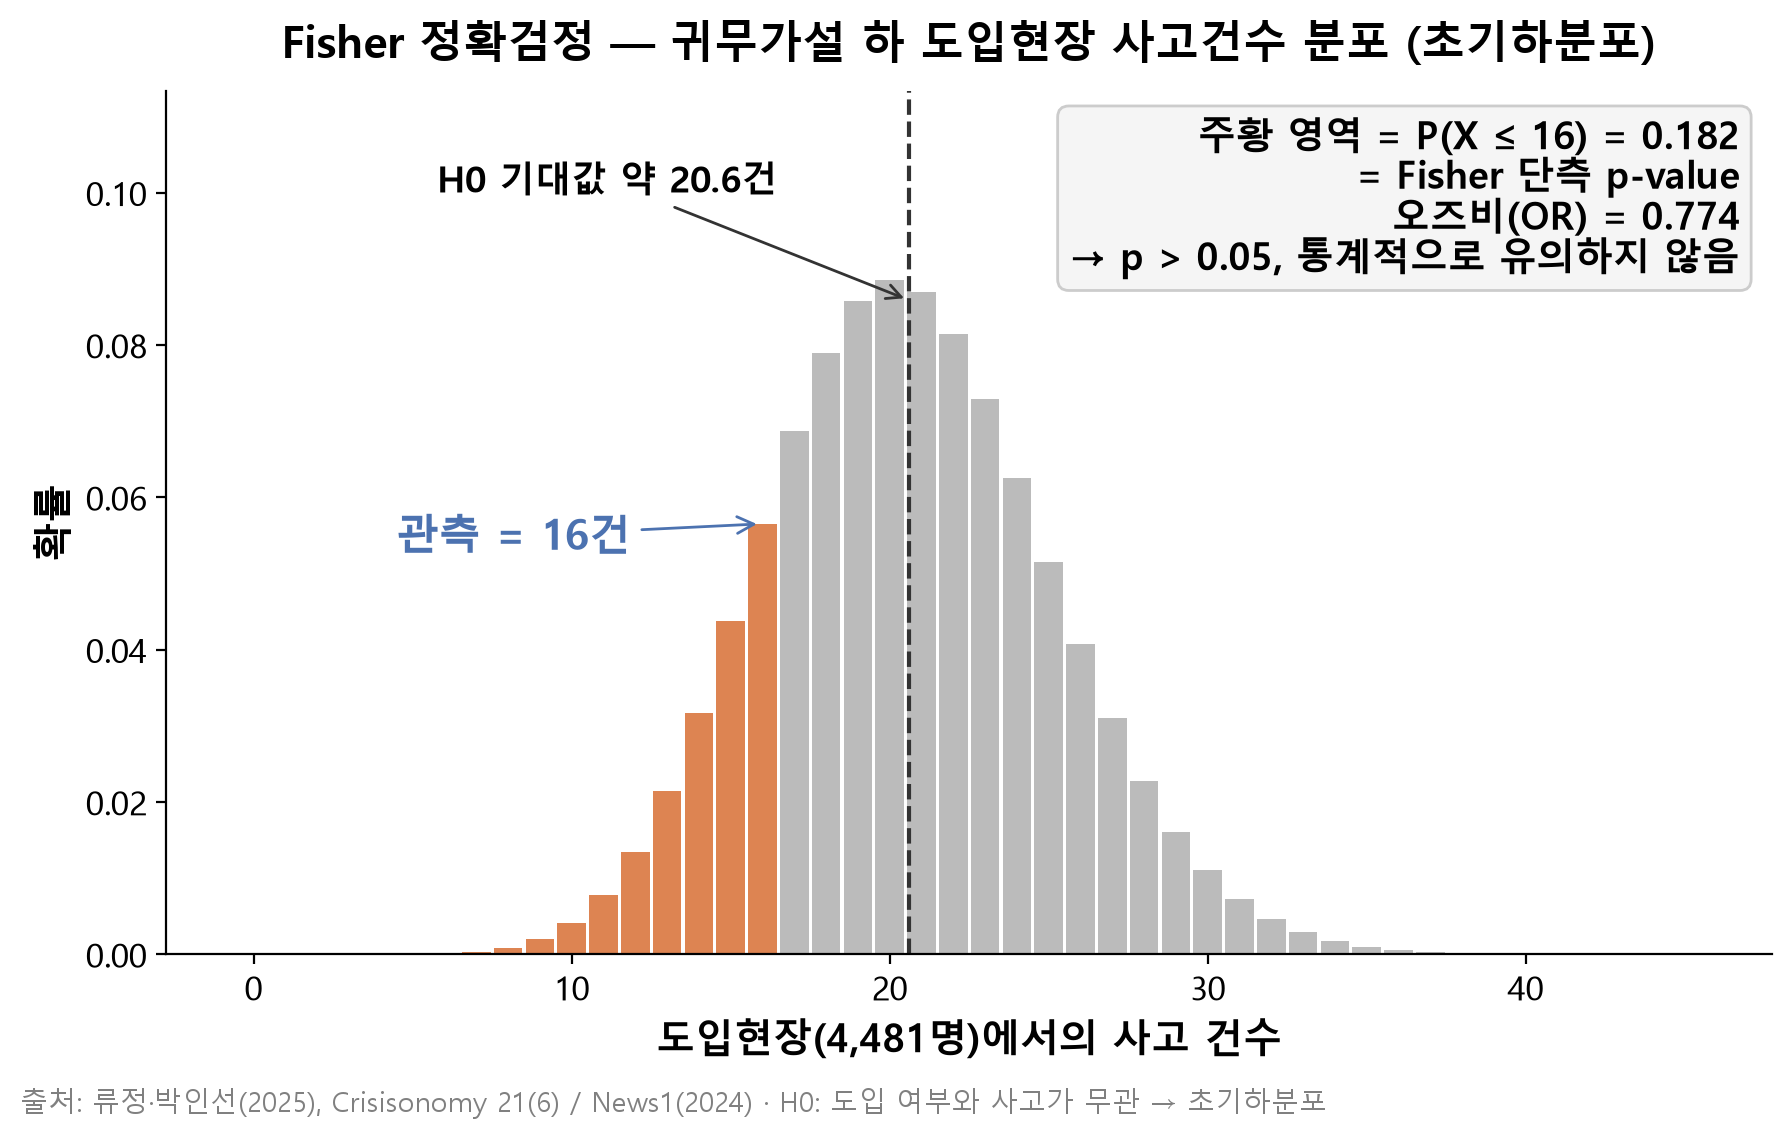
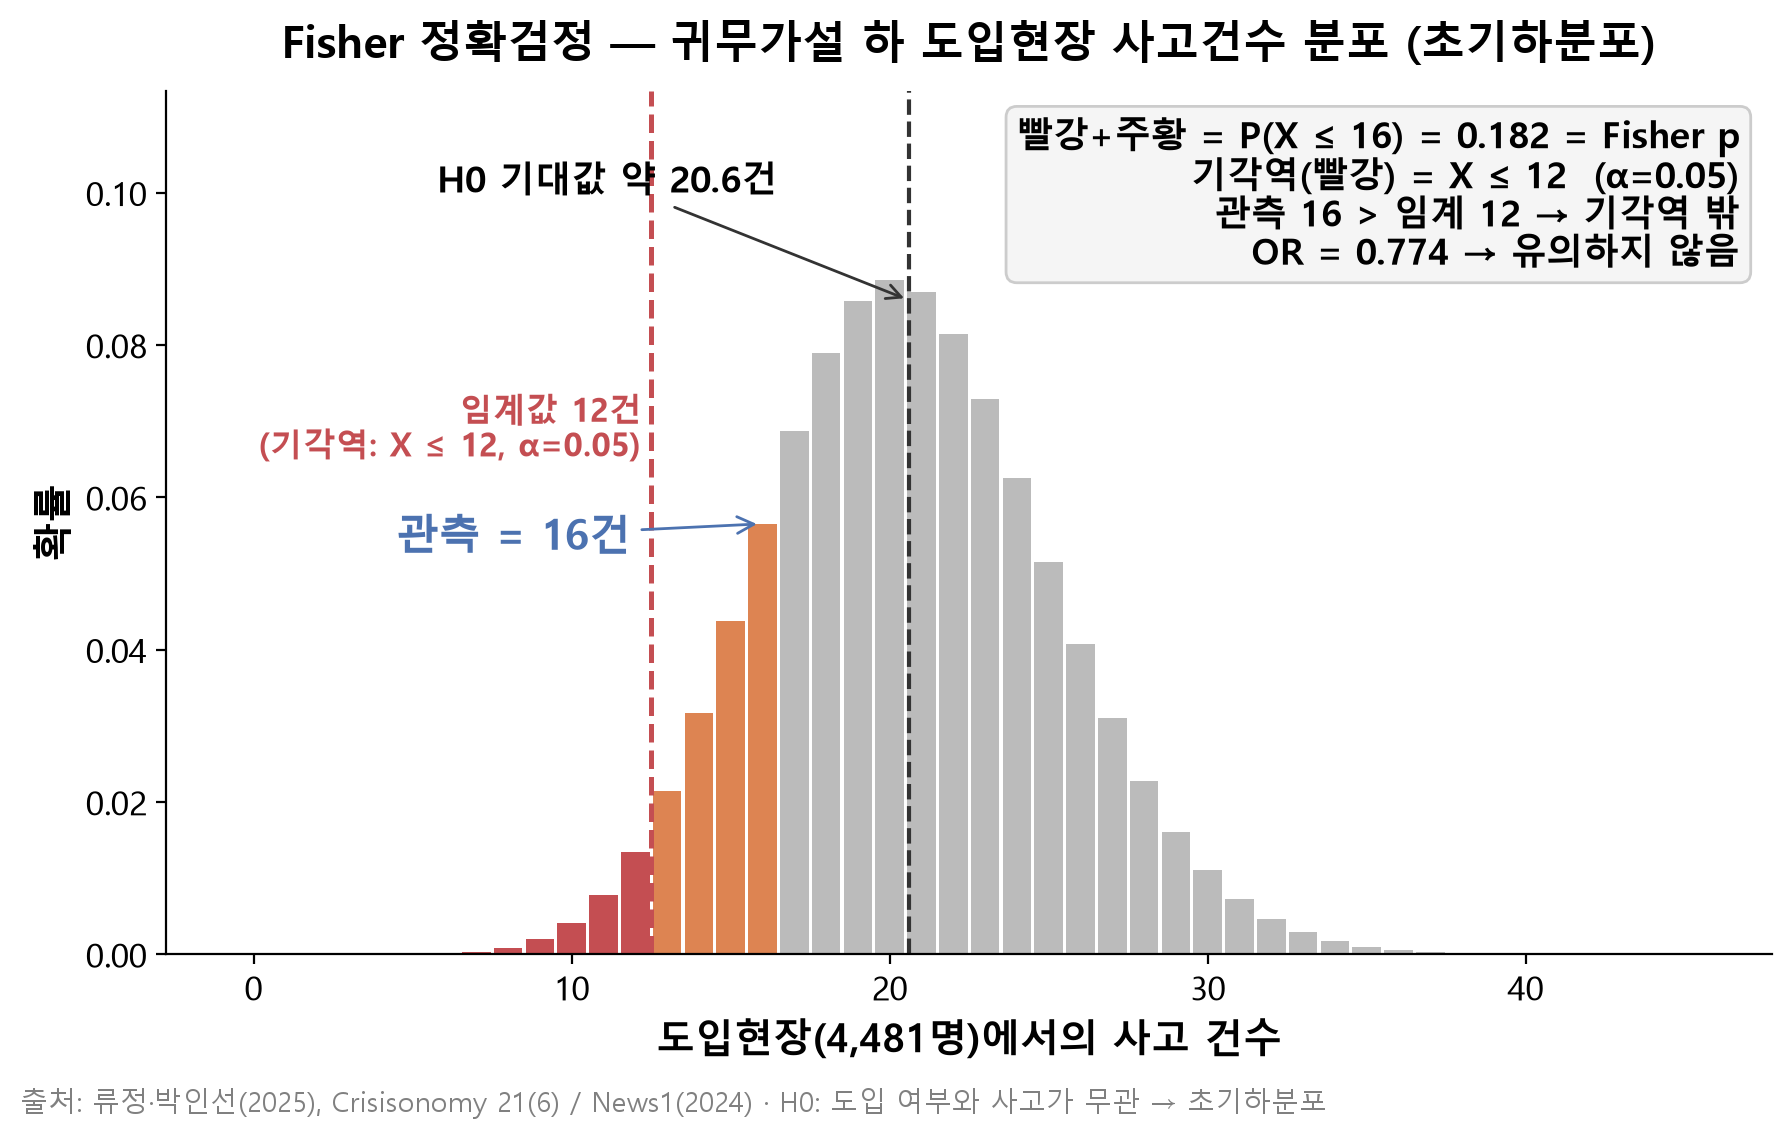
feature : Fisher 차트에 단측 임계값(기각역) 표시 추가
- 임계값 X≤12(빨강 막대+점선) = 단측 α=0.05 기각역, p-value 영역 X≤16(빨강+주황) 구분
- 관측 16 > 임계 12 → 기각역 밖(유의하지 않음) 시각화, 설명 박스 갱신

Changed region(s): [[0.5625, 0.0922, 0.9688, 0.2766], [0.1562, 0.338, 0.375, 0.3995], [0.2812, 0.7375, 0.375, 0.8604]]

diff --git a/src/plane/visualize_proportion_test.py b/src/plane/visualize_proportion_test.py
@@ -106,12 +106,26 @@ def plot_fisher():
     p_value = stats.hypergeom.cdf(X2, M, K, n)      # P(X <= 16) = Fisher(단측)
     odds_ratio, _ = stats.fisher_exact([[X2, N2 - X2], [X1, N1 - X1]], alternative="less")
 
-    colors = [C_TAIL if xi <= X2 else C_BASE for xi in xs]
+    # 단측 α=0.05 기각역: P(X <= crit_k) <= 0.05 인 가장 큰 k
+    crit_k = max(k for k in xs if stats.hypergeom.cdf(k, M, K, n) <= 0.05)
+
+    def bar_color(xi):
+        if xi <= crit_k:
+            return C_REJECT   # 기각역 (X <= 임계값)
+        if xi <= X2:
+            return C_TAIL     # 관측 이하 = p-value 영역
+        return C_BASE
+    colors = [bar_color(xi) for xi in xs]
+
     fig, ax = plt.subplots(figsize=(9, 5.5))
     ax.bar(xs, pmf, color=colors, width=0.9)
 
     ax.set_ylim(0, pmf.max() * 1.28)
     ax.axvline(mean, color="#333333", ls="--", lw=1.5)
+    ax.axvline(crit_k + 0.5, color=C_REJECT, ls="--", lw=1.8)
+    ax.text(crit_k + 0.2, pmf.max() * 0.78,
+            f"임계값 {crit_k}건\n(기각역: X ≤ {crit_k}, α=0.05)",
+            color=C_REJECT, fontsize=12, fontweight="bold", ha="right", va="center")
     ax.annotate(f"H0 기대값 약 {mean:.1f}건", xy=(mean, pmf.max() * 0.97),
                 xytext=(mean - 9.5, pmf.max() * 1.13), fontsize=13, fontweight="bold", ha="center",
                 arrowprops=dict(arrowstyle="->", color="#333333"))
@@ -120,11 +134,11 @@ def plot_fisher():
                 arrowprops=dict(arrowstyle="->", color=C_OBS))
 
     ax.text(0.98, 0.97,
-            f"주황 영역 = P(X ≤ {X2}) = {p_value:.3f}\n"
-            f"= Fisher 단측 p-value\n"
-            f"오즈비(OR) = {odds_ratio:.3f}\n"
-            f"→ p > 0.05, 통계적으로 유의하지 않음",
-            transform=ax.transAxes, va="top", ha="right", fontsize=13.5, fontweight="bold",
+            f"빨강+주황 = P(X ≤ {X2}) = {p_value:.3f} = Fisher p\n"
+            f"기각역(빨강) = X ≤ {crit_k}  (α=0.05)\n"
+            f"관측 {X2} > 임계 {crit_k} → 기각역 밖\n"
+            f"OR = {odds_ratio:.3f} → 유의하지 않음",
+            transform=ax.transAxes, va="top", ha="right", fontsize=13, fontweight="bold",
             bbox=dict(boxstyle="round", facecolor="#F5F5F5", edgecolor="#CCCCCC"))
 
     ax.set_title("Fisher 정확검정 — 귀무가설 하 도입현장 사고건수 분포 (초기하분포)",

diff --git a/docu/work.md b/docu/work.md
@@ -62,3 +62,4 @@
 - 발표 삽입용 차트 5종 가독성 개선(폰트 확대·bold·dpi 200): 10 사고재해율, 01 로봇밀도, 05 업종별 발생형태, Z검정, Fisher.
   - 확대 과정에서 생긴 겹침 정리: Fisher H0 라벨↔제목(상단 여백 확대), Z 설명박스↔곡선(문구 3줄로 축소), 차트10 세로축·인접 텍스트·-22.56%(막대 간격 확대·음수 눈금 제거·상세 텍스트 축소).
   - 대상 PNG는 Python 재생성. 발표자료 pptx는 이번 커밋에서 재생성하지 않음(옛 이미지 유지).
+- Fisher 초기하분포 차트에 단측 α=0.05 임계값 표시 추가. 기각역 X ≤ 12(빨강 막대+점선), p-value 영역 X ≤ 16(빨강+주황) 색 구분, 관측 16 > 임계 12로 기각역 밖임을 시각화(설명 박스도 갱신). Z-검정 차트와 동일한 방식.
